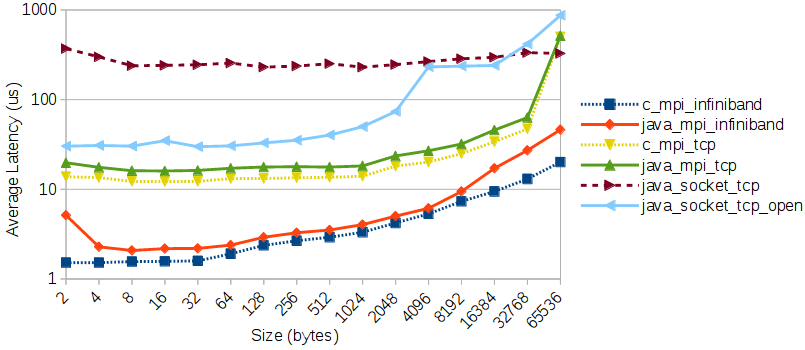
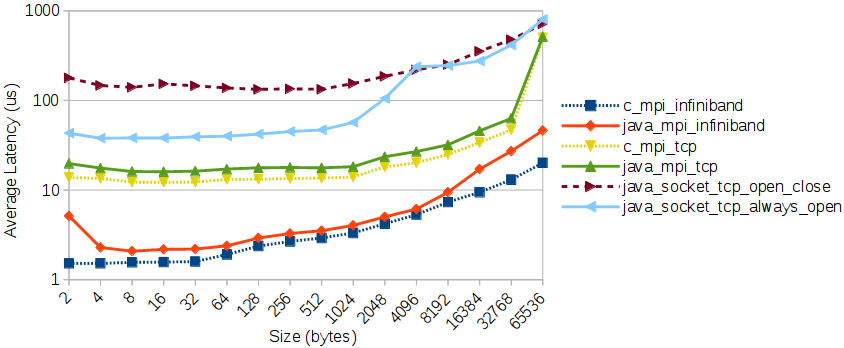
refs #14 - OSULatencySocket improved. all_combined.ods is modified.

diff --git a/src/main/java/testframework/osu/pt2pt/OSULatencySocket.java b/src/main/java/testframework/osu/pt2pt/OSULatencySocket.java
@@ -106,15 +106,16 @@ public class OSULatencySocket {
                         if(i == skip){
                             t_start = System.nanoTime();
                         }
-                        pinger.send(s_buf);
-                        pinger.recv(r_buf);
+                        Socket s = pinger.sendByClient(s_buf);
+                        pinger.recvByClient(r_buf, s.getInputStream());
+                        pinger.closeSocket(s);
                     }
                     t_end = System.nanoTime();
                 }
                 else {
                     for (int i = 0; i < iterations + skip; i++) {
-                        pinger.recv(r_buf);
-                        pinger.send(s_buf);
+                        Socket s = pinger.recvByServer(r_buf);
+                        pinger.sendByServer(s_buf, s.getOutputStream());
                     }
                 }
 
@@ -144,24 +145,39 @@ public class OSULatencySocket {
         serverSocket.close();
     }
 
-    public void send(byte[] msg) throws IOException {
+    public Socket sendByClient(byte[] msg) throws IOException {
         Socket socket = new Socket(pongerIpInetAddr, pongerPort);
         socket.setTcpNoDelay(true);
         OutputStream dOut = socket.getOutputStream();
         dOut.write(msg,0,msg.length);    // write the message
-//        dOut.flush();
-        dOut.close();
+        return socket;
     }
 
-    public void recv(byte[] r_buf) throws IOException {
+    public void recvByClient(byte[] r_buf, InputStream inputStream) throws IOException {
+        DataInputStream dIn = new DataInputStream(inputStream);
+        dIn.readFully(r_buf);
+    }
+
+    public Socket recvByServer(byte[] r_buf) throws IOException {
         Socket socket = serverSocket.accept();
         socket.setTcpNoDelay(true);
         InputStream dIn = socket.getInputStream();
         dIn.read(r_buf,0,r_buf.length);
-//        DataInputStream dIn = new DataInputStream(socket.getInputStream());
-//        dIn.readFully(r_buf);
-        dIn.close();
-        socket.close();
+        return socket;
+    }
+
+    public void sendByServer(byte[] msg, OutputStream outputStream) throws IOException {
+        OutputStream dOut = outputStream;
+        dOut.write(msg,0,msg.length);    // write the message
+    }
+
+    public void closeSocket(Socket socket) throws IOException {
+        if(socket != null){
+            if(socket.getOutputStream() != null){
+                socket.getOutputStream().close();
+            }
+            socket.close();
+        }
     }
 
     public void multicast(String message) {
